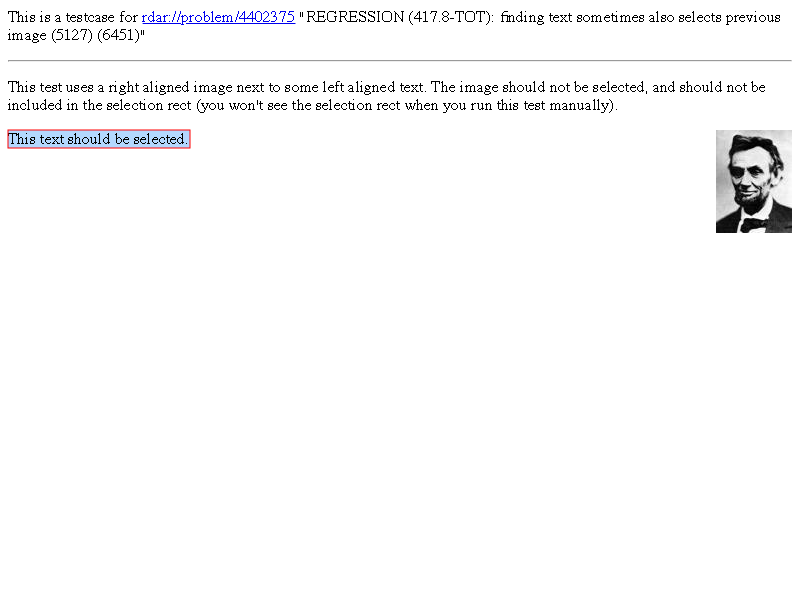
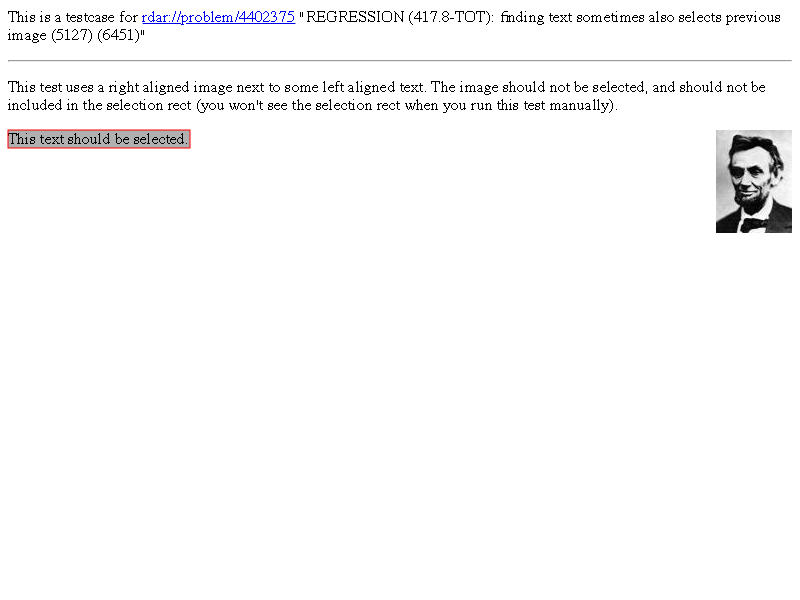
Fix flaky editing\selection\4402375.html test
The above mentioned test is flaky on Mac platforms. The flakiness
occurs because sometimes the test window is inactive, leading to an
inactive selection color (gray) versus the expected active selection
color (blue). Since there is no deterministic way to set the window as
active from JS, the test is being fixed by setting the color and
background-color for active and inactive selection to be the same. This
will ensure that the selection colors will always align with the
baseline, regardless of whether the window is active or not.

Bug: 1425544
Commit-Queue: Sanket Joshi <sajos@microsoft.com>
Cr-Commit-Position: refs/heads/main@{#1158671}

Changed region(s): [[0.0, 0.21, 0.25, 0.27]]

diff --git a/web_tests/editing/selection/4402375.html b/web_tests/editing/selection/4402375.html
@@ -1,3 +1,10 @@
+<style>
+    ::selection,
+    ::selection:window-inactive {
+      background-color: rgb(176, 176, 176);
+      color: black;
+    }
+</style>
 <script>
 if (window.testRunner) {
     testRunner.dumpEditingCallbacks();
